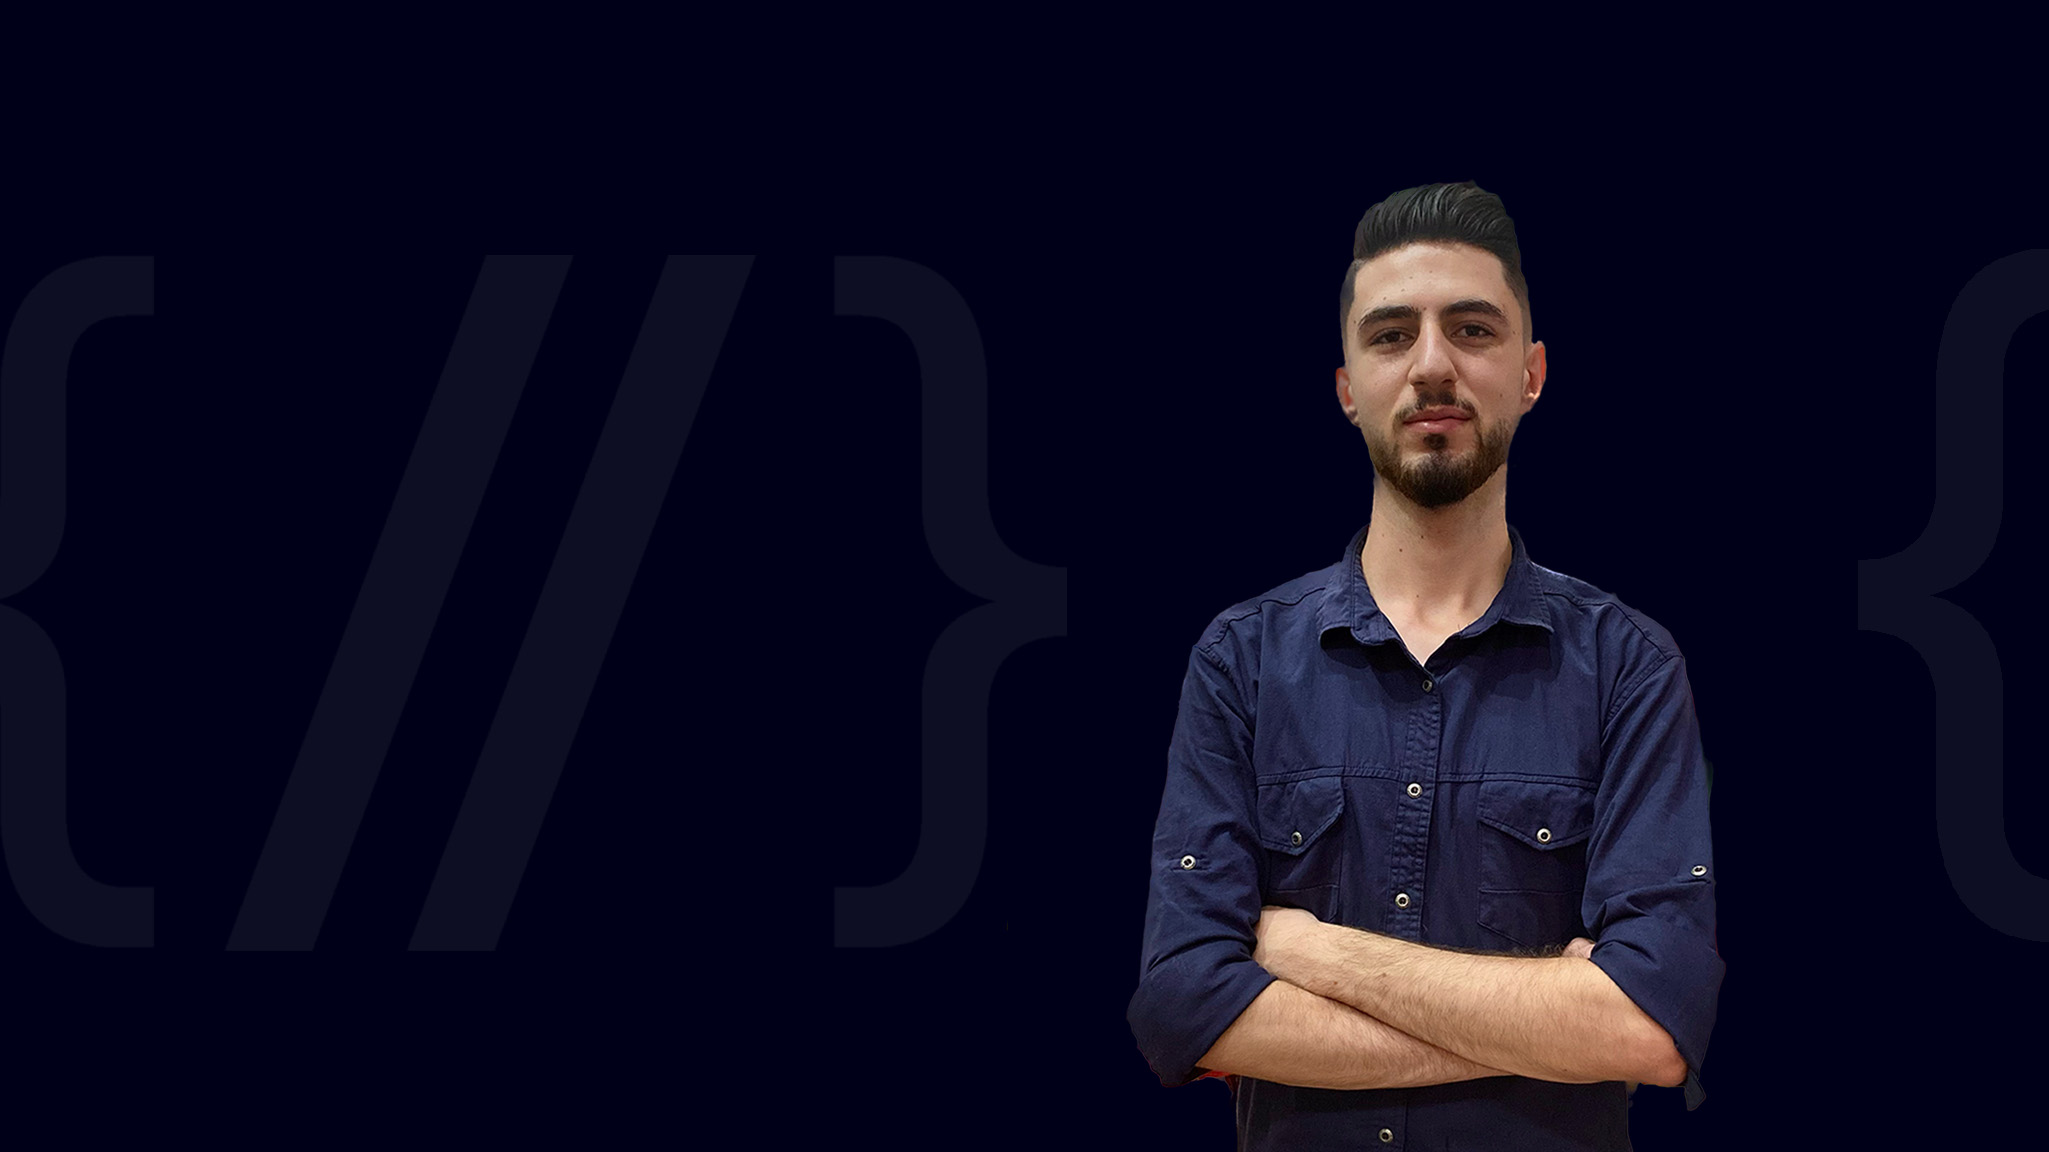
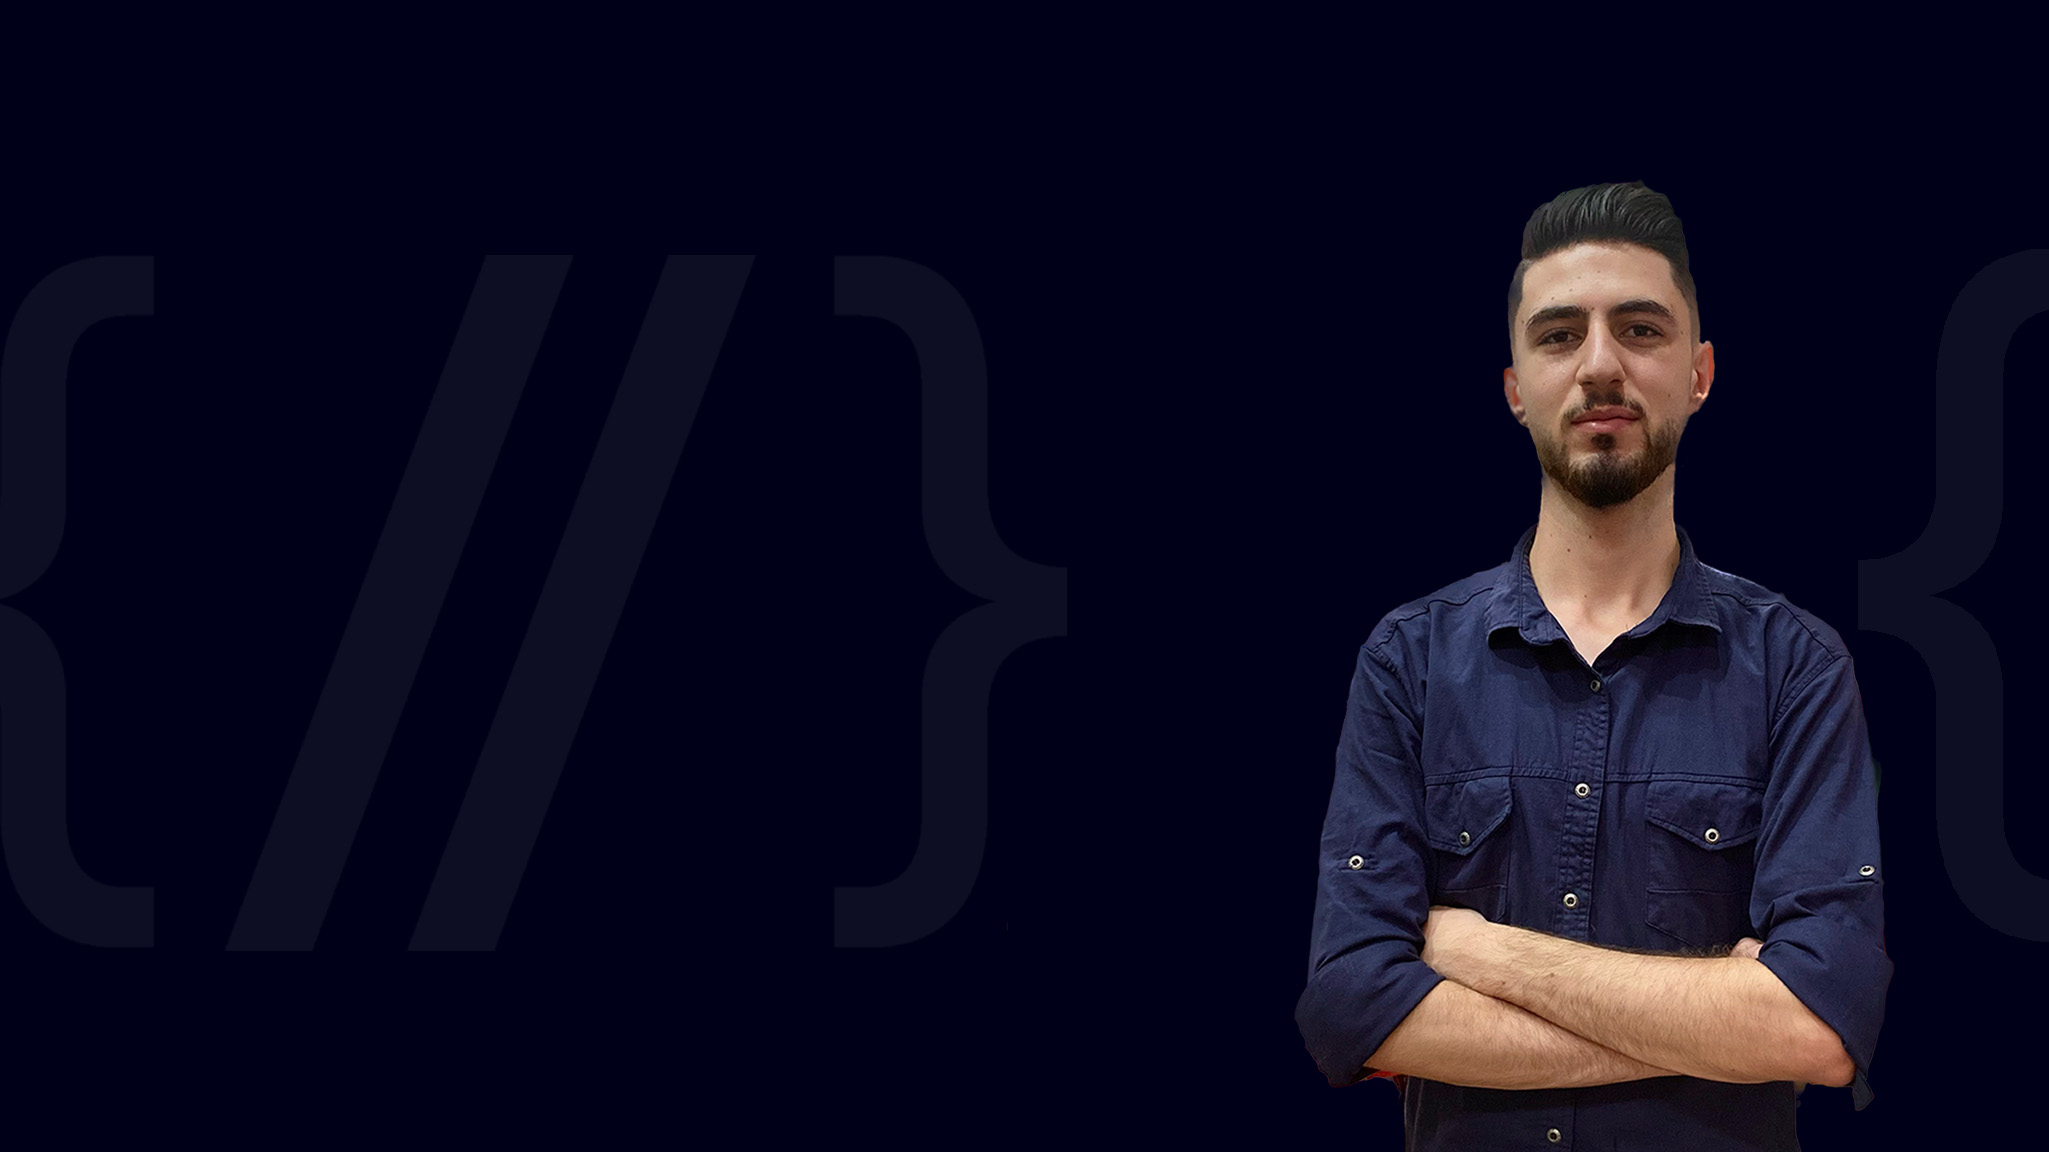
update image position

Changed region(s): [[0.531, 0.1562, 0.937, 1.0]]

diff --git a/style.css b/style.css
@@ -50,7 +50,7 @@ section {
     align-items: center;
     background: url(images/background-image.jpg) no-repeat;
     background-size: cover;
-    background-position: center;
+    background-position: right;
     background-attachment: fixed;
 }
 
